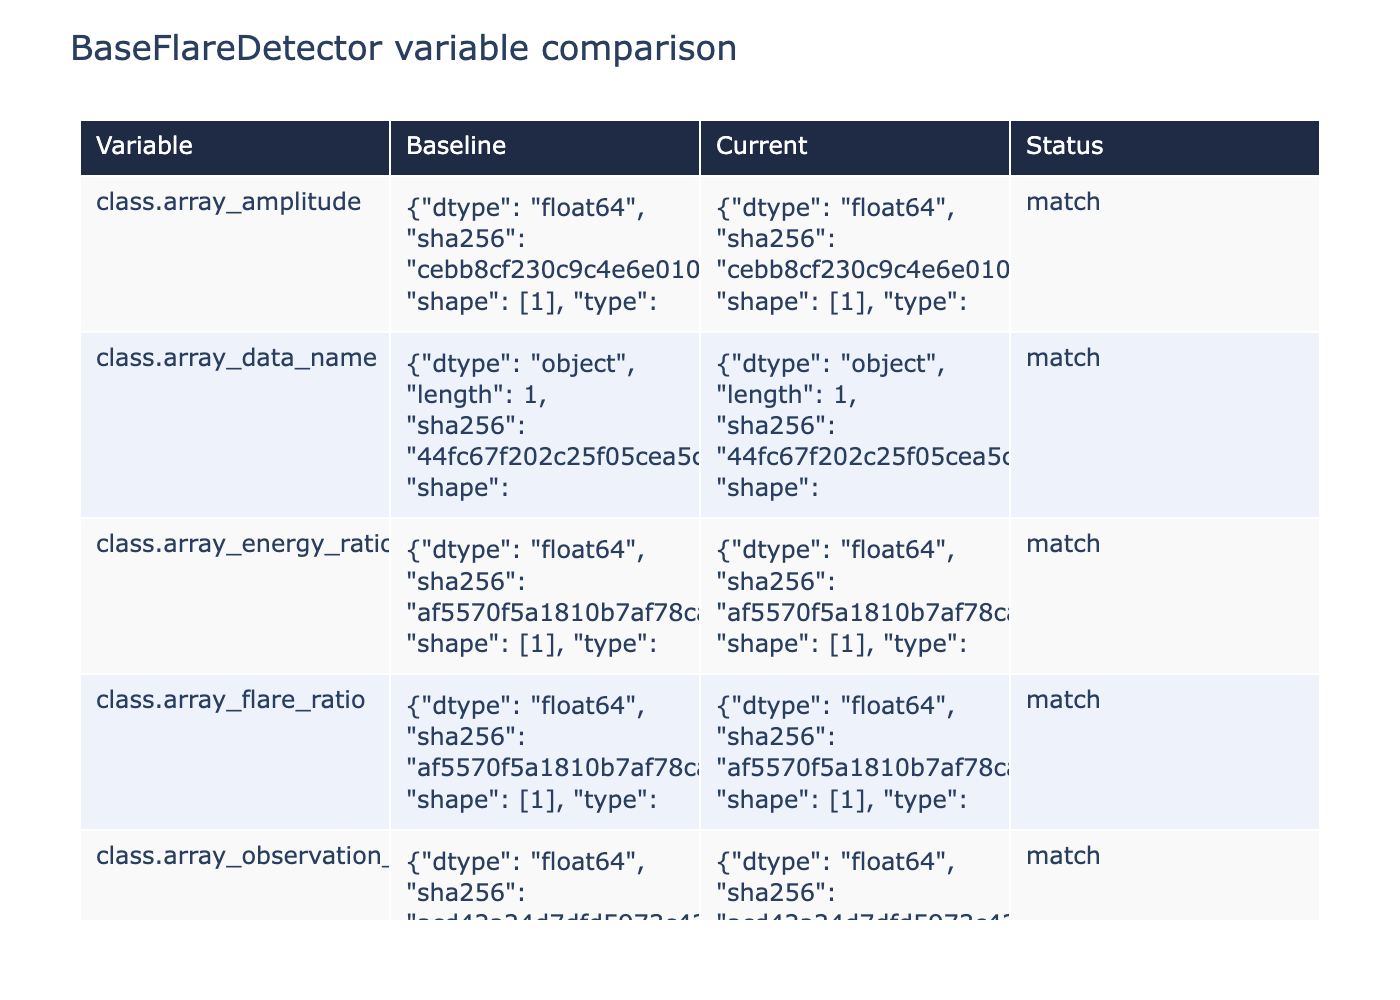
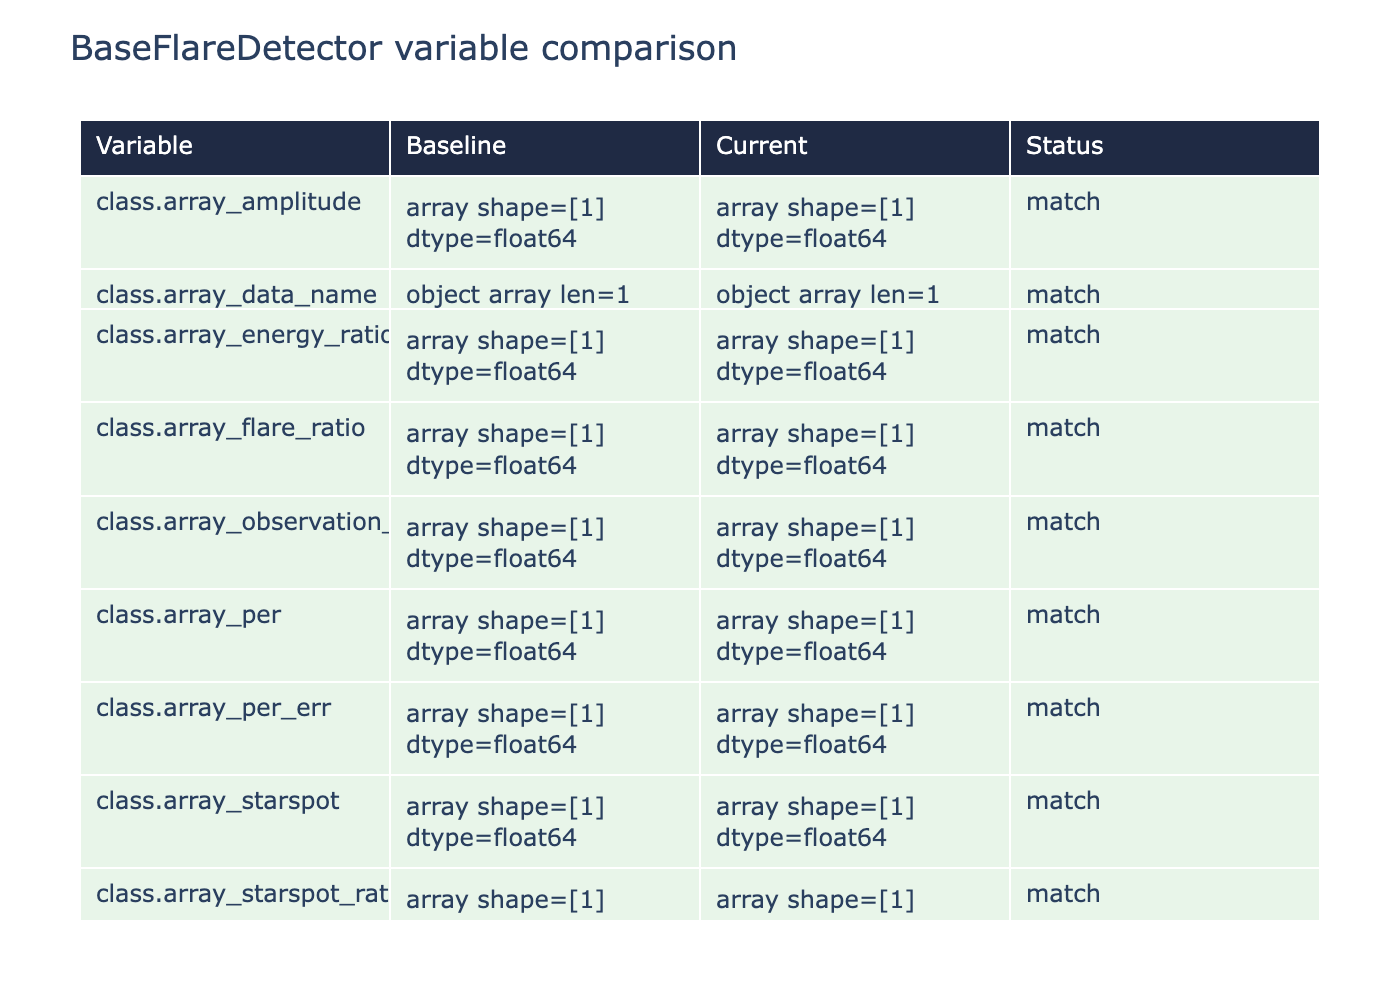
refactor: 状態検証詳細表のフォーマットを改善

diff --git a/scripts/verify_detector_state.py b/scripts/verify_detector_state.py
@@ -36,6 +36,42 @@ CLASS_DEFAULT_FACTORIES: Dict[str, Callable[[], Any]] = {
     "average_flare_ratio": lambda: 0.0,
 }
 
+STATUS_COLORS = {
+    "match": "#e8f5e9",
+    "diff": "#ffebee",
+    "missing_in_baseline": "#fff3e0",
+    "missing_in_current": "#e3f2fd",
+}
+
+
+def _status_color(status: str) -> str:
+    return STATUS_COLORS.get(status, "#f9f9f9")
+
+
+def _format_serialized_value(value_repr: str | None) -> str:
+    if not value_repr:
+        return ""
+    try:
+        data = json.loads(value_repr)
+    except json.JSONDecodeError:
+        return value_repr
+
+    value_type = data.get("type")
+    if value_type in {"scalar", "path"}:
+        return str(data.get("value"))
+    if value_type == "ndarray":
+        return f"array shape={data.get('shape')} dtype={data.get('dtype')}"
+    if value_type == "ndarray_object":
+        length = data.get("length")
+        return f"object array len={length}"
+    if value_type == "list":
+        return f"list(len={len(data.get('items', []))})"
+    if value_type == "dict":
+        return f"dict(keys={len(data.get('items', {}))})"
+    if value_type == "repr":
+        return str(data.get("value"))
+    return value_repr
+
 
 def reset_class_state(BaseFlareDetector: Any) -> None:
     for attr, factory in CLASS_DEFAULT_FACTORIES.items():
@@ -200,24 +236,18 @@ def plot_detailed(rows: List[Dict[str, Any]], output_path: Path, show_plot: bool
         return
     detail_df = pd.DataFrame(rows_sorted)
     detail_df["Variable"] = detail_df["section"] + "." + detail_df["key"]
-    detail_df["Baseline"] = detail_df["baseline_repr"].apply(lambda v: (v or "")[:120])
-    detail_df["Current"] = detail_df["current_repr"].apply(lambda v: (v or "")[:120])
+    detail_df["Baseline"] = detail_df["baseline_repr"].apply(_format_serialized_value)
+    detail_df["Current"] = detail_df["current_repr"].apply(_format_serialized_value)
     detail_df["Status"] = detail_df["status"]
+    columns = ["Variable", "Baseline", "Current", "Status"]
+    row_colors = [_status_color(status) for status in detail_df["Status"]]
+    fill_colors = [row_colors for _ in columns]
 
     fig = go.Figure(
         data=[
             go.Table(
-                header=dict(
-                    values=["Variable", "Baseline", "Current", "Status"],
-                    fill_color="#1f2a44",
-                    font=dict(color="white"),
-                    align="left",
-                ),
-                cells=dict(
-                    values=[detail_df[col] for col in ["Variable", "Baseline", "Current", "Status"]],
-                    fill_color=[["#f9f9f9", "#eef3fb"] * (len(detail_df) // 2 + 1)],
-                    align="left",
-                ),
+                header=dict(values=columns, fill_color="#1f2a44", font=dict(color="white"), align="left"),
+                cells=dict(values=[detail_df[col] for col in columns], fill_color=fill_colors, align="left"),
             )
         ]
     )
